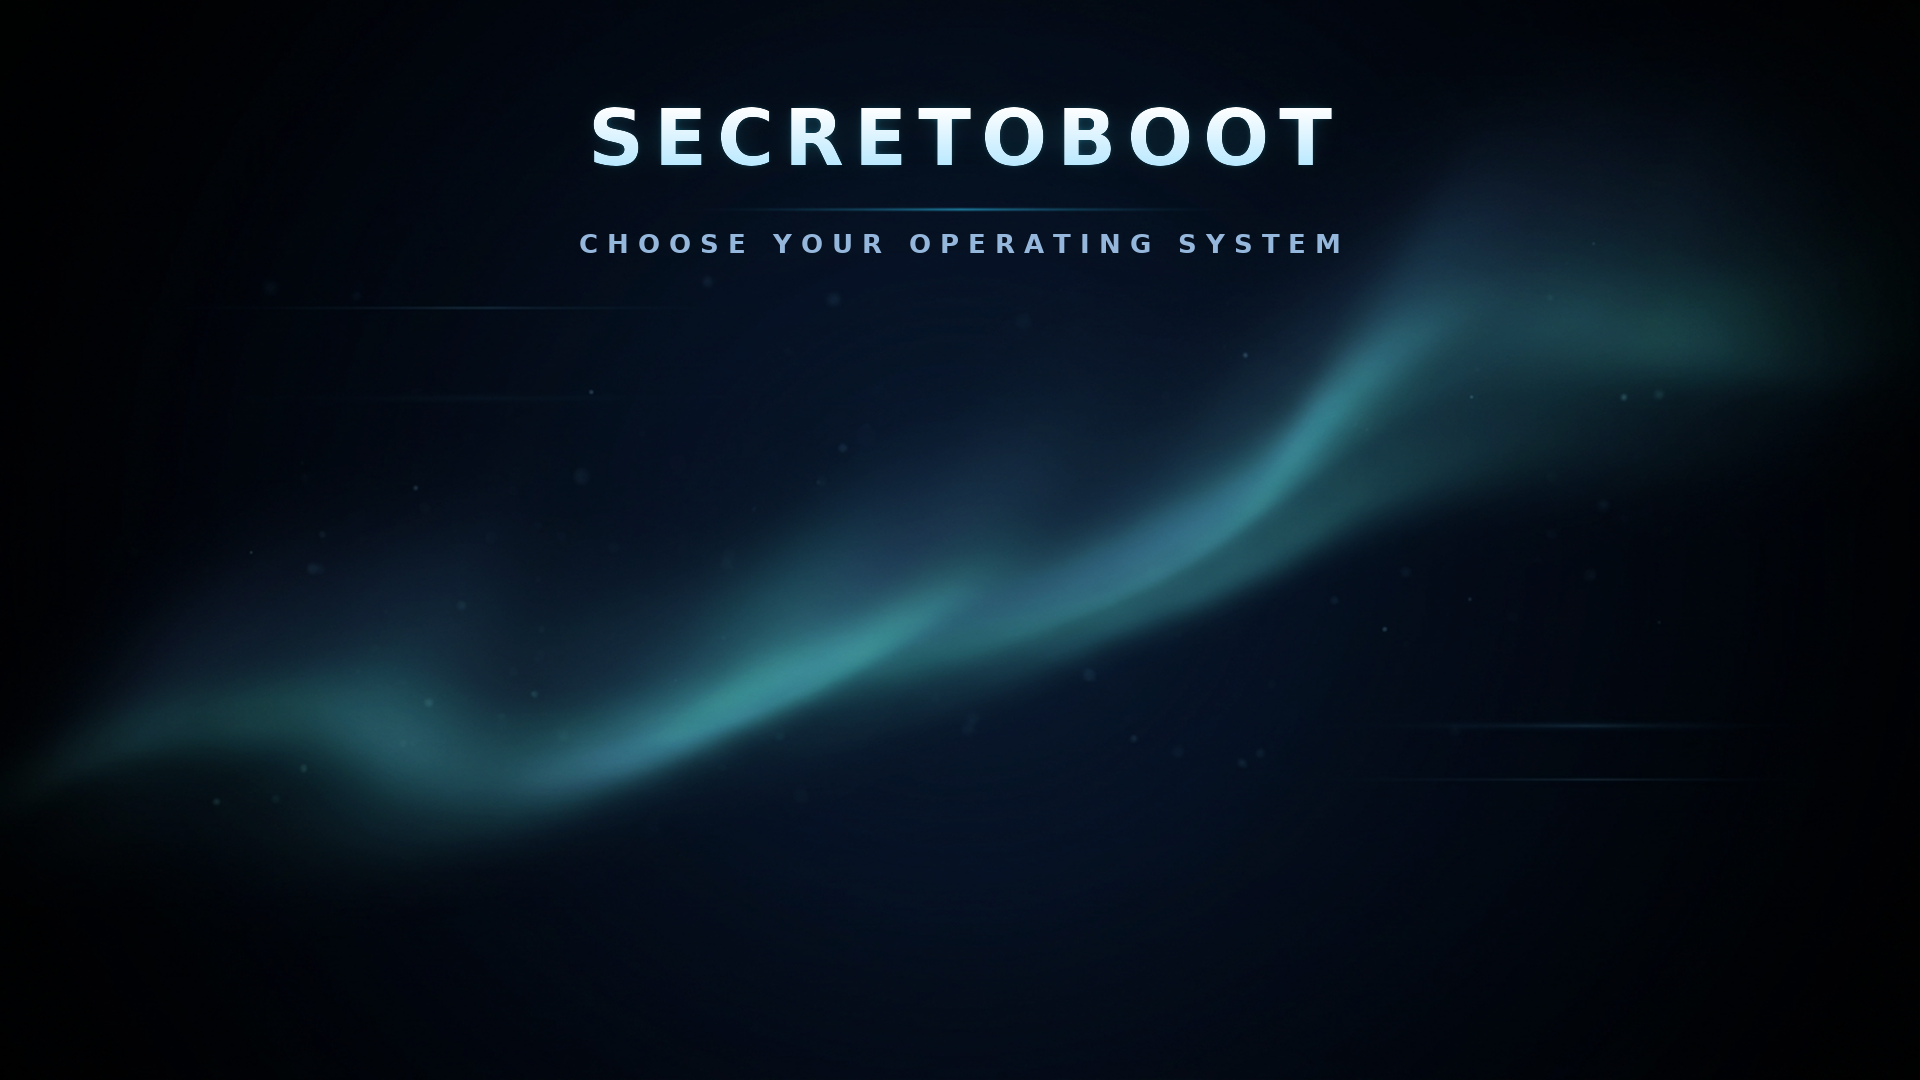
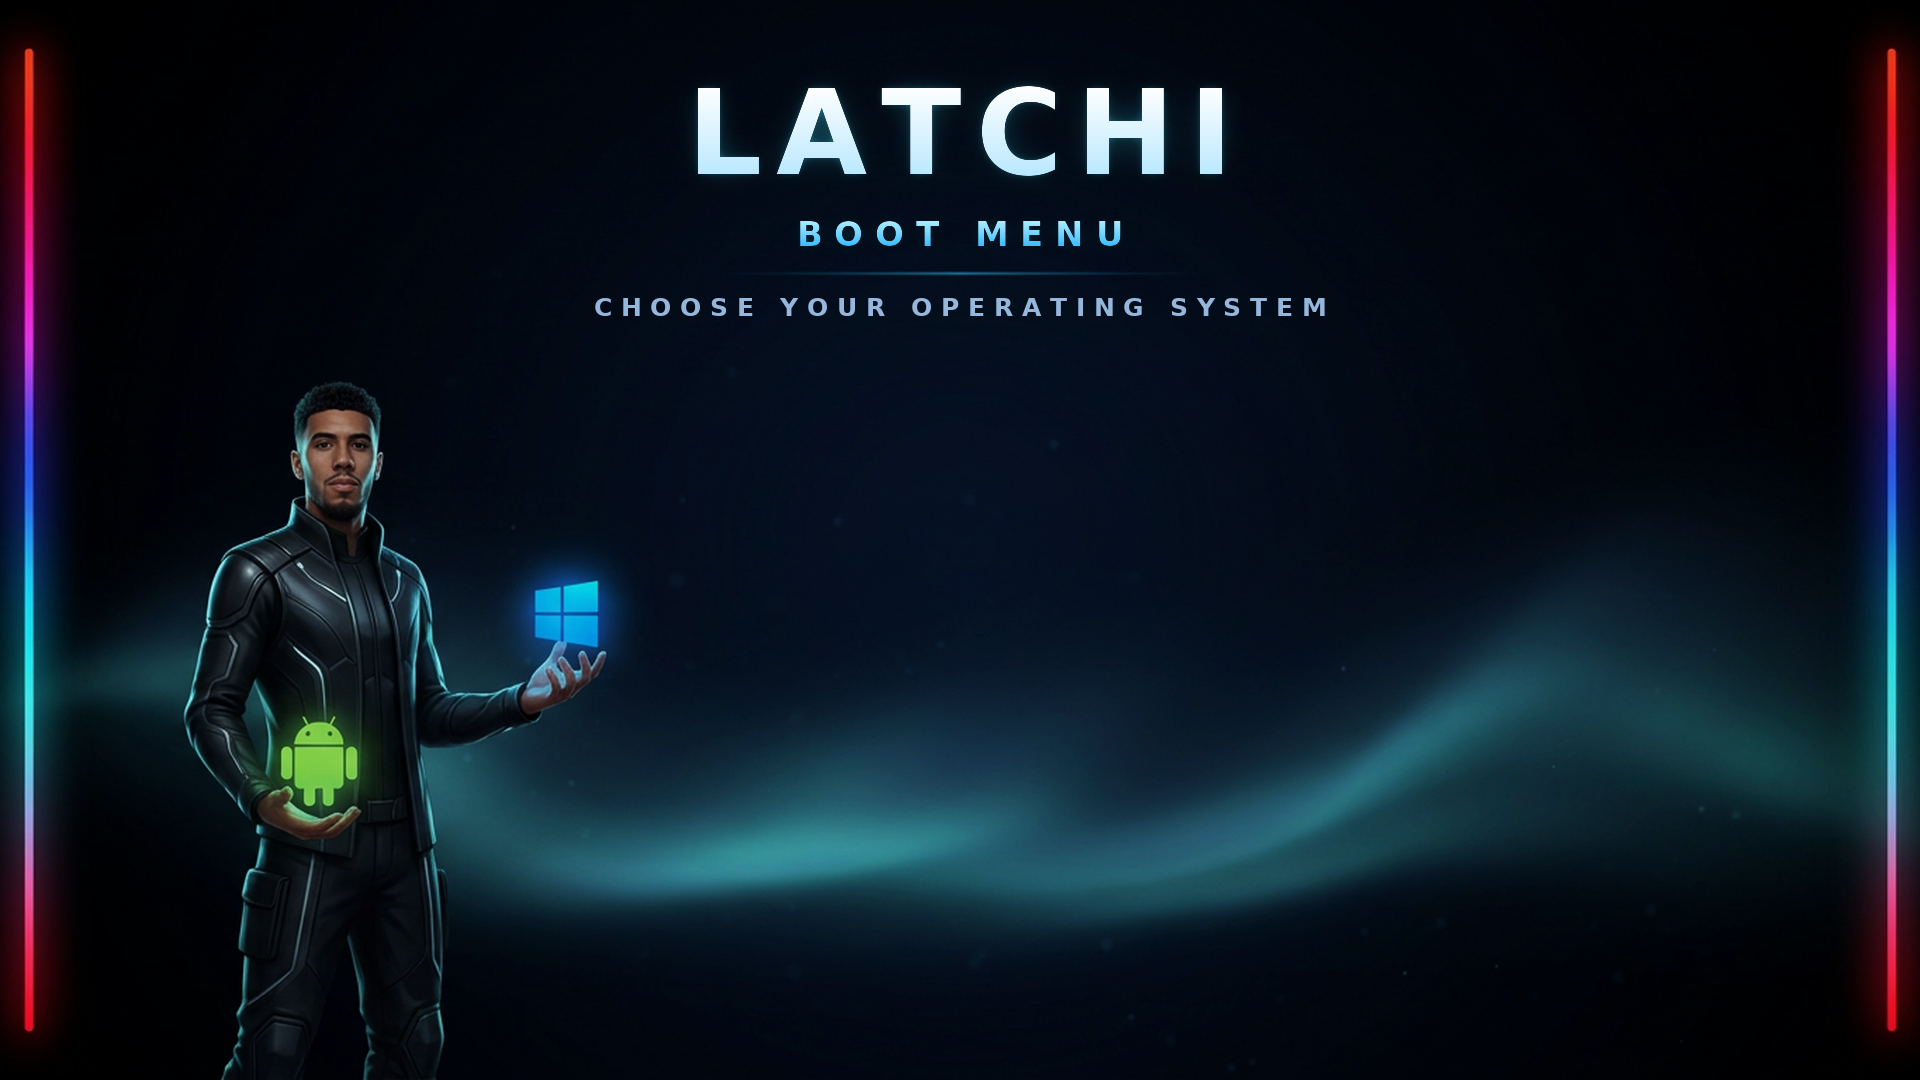
Theme FinalRelease.3 (LATCHI BOOT MENU edition): client-personalized boot interface
- Background rebranded to LATCHI BOOT MENU wordmark (baked, glowing)
- Client mascot character (from approved master character sheet) holding
  glowing Windows + Android TV emblems, integrated bottom-left
- RGB LED edge lighting (red-magenta-blue-cyan) on both screen sides
- android.png slot redesigned as Android TV emblem (robot head on TV set)
- linux.png slot redesigned as Chromium-style segmented ring (FydeOS)
- Intensified glows on all icons, function badges and selectors
- Theme revision FinalRelease.2 -> FinalRelease.3, all SHA256 regenerated
- Boot behavior unchanged: Windows default, 10s timeout, any key freezes
  menu (rEFInd native), hidden Enter-to-Windows (selector starts on Windows)

diff --git a/src/ui/Program.cs b/src/ui/Program.cs
@@ -114,7 +114,7 @@ namespace SecretoBoot.V9.Desktop
             var subtitle = new Label { Text = UiText.Subtitle, Font = new Font("Segoe UI", 12F), ForeColor = Color.FromArgb(80, 89, 104), AutoSize = true, Location = new Point(31, 61) };
             bootManagerStatus = new Label { Text = "Boot Manager: Not installed", Font = new Font("Segoe UI Semibold", 9.5F), ForeColor = Color.FromArgb(65, 74, 89), AutoSize = true, Location = new Point(31, 88) };
             defaultBootStatus = new Label { Text = "Default boot: Windows", Font = new Font("Segoe UI Semibold", 9.5F), ForeColor = Color.FromArgb(65, 74, 89), AutoSize = true, Location = new Point(245, 88) };
-            themeDeploymentStatus = new Label { Text = "Theme: FinalRelease.2    Installed revision: NOT INSTALLED    Deployment: NOT INSTALLED", Font = new Font("Segoe UI Semibold", 8.5F), ForeColor = Color.FromArgb(125, 89, 25), AutoSize = true, Location = new Point(31, 110) };
+            themeDeploymentStatus = new Label { Text = "Theme: FinalRelease.3    Installed revision: NOT INSTALLED    Deployment: NOT INSTALLED", Font = new Font("Segoe UI Semibold", 8.5F), ForeColor = Color.FromArgb(125, 89, 25), AutoSize = true, Location = new Point(31, 110) };
             scanButton = new Button { Text = "Scan Systems", Size = new Size(135, 42), Anchor = AnchorStyles.Top | AnchorStyles.Right, Location = new Point(ClientSize.Width - 165, 28), BackColor = Color.FromArgb(31, 111, 235), ForeColor = Color.White, FlatStyle = FlatStyle.Flat };
             scanButton.FlatAppearance.BorderSize = 0;
             scanButton.Click += ScanButton_Click;
@@ -246,7 +246,7 @@ namespace SecretoBoot.V9.Desktop
                 var copy = new Button { Text = "Copy rEFInd Resolution Diagnostics", Size = new Size(285, 36), Location = new Point(355, 625), Anchor = AnchorStyles.Bottom | AnchorStyles.Right };
                 copy.Click += delegate { if (!string.IsNullOrEmpty(text.Text)) Clipboard.SetText(text.Text); };
                 bool installed = IsInstalled(), themeMatch = IsThemeMatch();
-                deploy = new Button { Text = installed ? (themeMatch ? "FinalRelease.2 Installed" : "Upgrade Theme + Test") : "Install SecretoBoot", Enabled = view.Deployable && (!installed || !themeMatch), Size = new Size(220, 36), Location = new Point(652, 625), Anchor = AnchorStyles.Bottom | AnchorStyles.Right };
+                deploy = new Button { Text = installed ? (themeMatch ? "FinalRelease.3 Installed" : "Upgrade Theme + Test") : "Install SecretoBoot", Enabled = view.Deployable && (!installed || !themeMatch), Size = new Size(220, 36), Location = new Point(652, 625), Anchor = AnchorStyles.Bottom | AnchorStyles.Right };
                 deploy.Click += delegate { if (IsInstalled()) { if (ConfirmThemeUpgrade(dialog)) RunDeployment("UpgradeAndTestNextBoot", "UPGRADE_FINALPOLISH_AND_TEST_NEXT_BOOT", view.EndToEndPlanJson); } else if (ConfirmInstall(dialog)) { RunDeployment("Install", "INSTALL_SECRETOBOOT_EXPERIMENTAL", view.EndToEndPlanJson); } };
                 dialog.Controls.Add(text); dialog.Controls.Add(manual); dialog.Controls.Add(confirm); dialog.Controls.Add(copy); dialog.Controls.Add(deploy); dialog.ShowDialog(this);
             }
@@ -270,7 +270,7 @@ namespace SecretoBoot.V9.Desktop
 
         private bool ConfirmThemeUpgrade(IWin32Window owner)
         {
-            return MessageBox.Show(owner, "Upgrade the existing manifest-owned SecretoBoot runtime to FinalRelease.2 and prepare one test restart?\n\nThe current owned files will be backed up first. Microsoft, Bliss OS, Linux, and foreign EFI loaders will not be modified.", "Confirm owned SecretoBoot release upgrade", MessageBoxButtons.YesNo, MessageBoxIcon.Warning, MessageBoxDefaultButton.Button2) == DialogResult.Yes;
+            return MessageBox.Show(owner, "Upgrade the existing manifest-owned SecretoBoot runtime to FinalRelease.3 and prepare one test restart?\n\nThe current owned files will be backed up first. Microsoft, Bliss OS, Linux, and foreign EFI loaders will not be modified.", "Confirm owned SecretoBoot release upgrade", MessageBoxButtons.YesNo, MessageBoxIcon.Warning, MessageBoxDefaultButton.Button2) == DialogResult.Yes;
         }
 
         private void ManageButton_Click(object sender, EventArgs e)
@@ -280,7 +280,7 @@ namespace SecretoBoot.V9.Desktop
             bool isDefault = string.Equals(primaryManager, "SecretoBoot", StringComparison.Ordinal);
             bool discoveryPassed = lastView != null && !lastView.HasFailure;
             bool planAvailable = discoveryPassed && lastView.Deployable && !string.IsNullOrWhiteSpace(lastView.EndToEndPlanJson);
-            UpgradeActionDecision upgrade = UpgradeActionPolicy.Evaluate(installed, InstalledThemeRevision(), "FinalRelease.2", ThemeState(), IsUpgradeOwnershipEligible(), discoveryPassed, planAvailable);
+            UpgradeActionDecision upgrade = UpgradeActionPolicy.Evaluate(installed, InstalledThemeRevision(), "FinalRelease.3", ThemeState(), IsUpgradeOwnershipEligible(), discoveryPassed, planAvailable);
             bool makeDefaultReady = installed && themeMatch && tested && !isDefault && planAvailable;
             bool compatibilityReady = installed && themeMatch && tested && planAvailable && !compatibilityEnabled && (OwnershipBoolean("BootOrderChangedByMakeDefault") || !string.IsNullOrEmpty(OwnershipField("PersistentDefaultVerifiedUtc")));
             string dialogPlanJson = planAvailable && lastView != null ? lastView.EndToEndPlanJson : null;
@@ -391,7 +391,7 @@ namespace SecretoBoot.V9.Desktop
                 diagnostics.Text = "Operation verified: " + result.Reason;
                 if (result.Reason == "OWNED_FIRMWARE_REPAIR_VERIFIED") firmwareEntryStatus = "Verified";
                 RefreshManagementState();
-                if (result.Reason == "TEST_BOOT_READY_VERIFIED" || result.Reason == "FINALRELEASE_THEME_UPGRADED_TEST_BOOT_READY") { DialogResult restart = MessageBox.Show(this, "Installed theme revision: " + InstalledThemeRevision() + "\nExpected theme revision: FinalRelease.2\nTheme deployment: " + ThemeState() + "\n\n" + result.Message + "\n\nRestart now?", "One-time test boot verified", MessageBoxButtons.YesNo, MessageBoxIcon.Information, MessageBoxDefaultButton.Button2); if (restart == DialogResult.Yes) Process.Start(new ProcessStartInfo { FileName = "shutdown.exe", Arguments = "/r /t 0", UseShellExecute = false, CreateNoWindow = true }); }
+                if (result.Reason == "TEST_BOOT_READY_VERIFIED" || result.Reason == "FINALRELEASE_THEME_UPGRADED_TEST_BOOT_READY") { DialogResult restart = MessageBox.Show(this, "Installed theme revision: " + InstalledThemeRevision() + "\nExpected theme revision: FinalRelease.3\nTheme deployment: " + ThemeState() + "\n\n" + result.Message + "\n\nRestart now?", "One-time test boot verified", MessageBoxButtons.YesNo, MessageBoxIcon.Information, MessageBoxDefaultButton.Button2); if (restart == DialogResult.Yes) Process.Start(new ProcessStartInfo { FileName = "shutdown.exe", Arguments = "/r /t 0", UseShellExecute = false, CreateNoWindow = true }); }
                 else MessageBox.Show(this, result.Message, "SecretoBoot operation verified", MessageBoxButtons.OK, MessageBoxIcon.Information);
             }
             catch (Exception ex) { if (!string.IsNullOrEmpty(planFile)) { try { File.Delete(planFile); } catch { } } InvalidateCachedMachineState(); RefreshManagementState(); MessageBox.Show(this, ex.Message, "SecretoBoot deployment did not start", MessageBoxButtons.OK, MessageBoxIcon.Warning); }
@@ -580,7 +580,7 @@ namespace SecretoBoot.V9.Desktop
         private static int? JsonIntegerField(string text, string name) { Match match = Regex.Match(text, "\\\"" + Regex.Escape(name) + "\\\"\\s*:\\s*([0-9]+)", RegexOptions.CultureInvariant); int value; return match.Success && int.TryParse(match.Groups[1].Value, out value) ? (int?)value : null; }
         private static string JsonStringField(string text, string name) { Match match = Regex.Match(text, "\\\"" + Regex.Escape(name) + "\\\"\\s*:\\s*\\\"([^\\\"]+)\\\"", RegexOptions.CultureInvariant); return match.Success ? match.Groups[1].Value : null; }
         private static string InstalledThemeRevision() { if (!IsInstalled()) return "NOT INSTALLED"; string theme = OwnershipField("ThemeRevision"); if (!string.IsNullOrEmpty(theme)) return theme; string revision = OwnershipField("Revision"); return string.IsNullOrEmpty(revision) ? "UNKNOWN" : revision.Replace("Windows-Desktop-RealMachine-", "").Replace("Windows-Desktop-V9-", ""); }
-        private static bool IsThemeMatch() { return string.Equals(OwnershipField("ThemeRevision"), "FinalRelease.2", StringComparison.Ordinal) && string.Equals(OwnershipField("ThemeDeployment"), "MATCH", StringComparison.Ordinal); }
+        private static bool IsThemeMatch() { return string.Equals(OwnershipField("ThemeRevision"), "FinalRelease.3", StringComparison.Ordinal) && string.Equals(OwnershipField("ThemeDeployment"), "MATCH", StringComparison.Ordinal); }
         private static string ThemeState() { return !IsInstalled() ? "NOT INSTALLED" : IsThemeMatch() ? "MATCH" : "STALE"; }
         private static bool IsUpgradeOwnershipEligible() { try { if (!IsInstalled()) return false; string revision = OwnershipField("Revision"), guid = OwnershipField("TargetEspPartitionGuid"), loadOption = OwnershipField("FirmwareLoadOptionBase64"); Guid parsed; string text = File.ReadAllText(OwnershipPath()); return (revision == "Windows-Desktop-RealMachine-OneShot.2" || revision == "Windows-Desktop-V9-FinalPolish.1" || revision == "Windows-Desktop-V9-FinalPolish.2" || revision == "Windows-Desktop-V9-FinalRelease.1") && Guid.TryParse(guid, out parsed) && parsed != Guid.Empty && !string.IsNullOrEmpty(loadOption) && Regex.IsMatch(text, "\\\"SchemaVersion\\\"\\s*:\\s*\\\"v9-ownership-manifest-1\\\"", RegexOptions.CultureInvariant) && Regex.IsMatch(text, "\\\"OwnershipVerified\\\"\\s*:\\s*true", RegexOptions.IgnoreCase | RegexOptions.CultureInvariant) && Regex.IsMatch(text, "\\\"FirmwareEntryNumber\\\"\\s*:\\s*[0-9]+", RegexOptions.CultureInvariant) && text.IndexOf("\"InstalledFiles\"", StringComparison.Ordinal) >= 0; } catch { return false; } }
         private static bool HasSuccessfulTest() { try { if (!File.Exists(TransactionPath()) || !File.Exists(OwnershipPath())) return false; string test = File.ReadAllText(TransactionPath()), ownership = File.ReadAllText(OwnershipPath()); if (test.IndexOf("\"BootNextVerified\": true", StringComparison.OrdinalIgnoreCase) < 0) return false; int? testEntry = JsonIntegerField(test, "TestFirmwareEntryNumber"), ownedEntry = JsonIntegerField(ownership, "FirmwareEntryNumber"); string testGuid = JsonStringField(test, "TestPartitionGuid"), ownedGuid = JsonStringField(ownership, "TargetEspPartitionGuid"), testHash = JsonStringField(test, "TestRefindSha256"), ownedHash = JsonStringField(ownership, "refind_x64.efi"), testRevision = JsonStringField(test, "TestInstalledRevision"), ownedRevision = JsonStringField(ownership, "Revision"), testDigest = JsonStringField(test, "TestInstalledIdentityDigest"); return testEntry.HasValue && ownedEntry.HasValue && testEntry.Value == ownedEntry.Value && string.Equals(testGuid, ownedGuid, StringComparison.OrdinalIgnoreCase) && string.Equals(testHash, ownedHash, StringComparison.Ordinal) && string.Equals(testRevision, ownedRevision, StringComparison.Ordinal) && !string.IsNullOrEmpty(testDigest); } catch { return false; } }
@@ -610,7 +610,7 @@ namespace SecretoBoot.V9.Desktop
             catch { return "Verification required"; }
         }
         private void InvalidateCachedMachineState() { lastView = null; previewButton.Tag = null; diagnosticsButton.Tag = null; setupButton.Tag = null; previewButton.Enabled = false; diagnosticsButton.Enabled = false; setupButton.Enabled = false; stateFreshnessStatus = "Refresh required"; firmwareEntryStatus = "Verification required"; }
-        private void RefreshManagementState() { bool installed = IsInstalled(); string theme=ThemeState(), primaryManager=GetCurrentPrimaryBootManager(); bootManagerStatus.Text = "Boot Manager: " + (installed ? "Installed" : "Not installed"); bootManagerStatus.ForeColor = installed ? Color.FromArgb(29, 132, 88) : Color.FromArgb(125, 89, 25); defaultBootStatus.Text = "Primary boot manager: " + primaryManager; themeDeploymentStatus.Text = "Default OS inside SecretoBoot: Windows    Theme: FinalRelease.2    Installed revision: " + InstalledThemeRevision() + "    Deployment: " + theme; themeDeploymentStatus.ForeColor = theme == "MATCH" ? Color.FromArgb(29, 132, 88) : Color.FromArgb(145, 93, 20); }
+        private void RefreshManagementState() { bool installed = IsInstalled(); string theme=ThemeState(), primaryManager=GetCurrentPrimaryBootManager(); bootManagerStatus.Text = "Boot Manager: " + (installed ? "Installed" : "Not installed"); bootManagerStatus.ForeColor = installed ? Color.FromArgb(29, 132, 88) : Color.FromArgb(125, 89, 25); defaultBootStatus.Text = "Primary boot manager: " + primaryManager; themeDeploymentStatus.Text = "Default OS inside SecretoBoot: Windows    Theme: FinalRelease.3    Installed revision: " + InstalledThemeRevision() + "    Deployment: " + theme; themeDeploymentStatus.ForeColor = theme == "MATCH" ? Color.FromArgb(29, 132, 88) : Color.FromArgb(145, 93, 20); }
 
         private static bool HashMatches(string path, string expected)
         {
